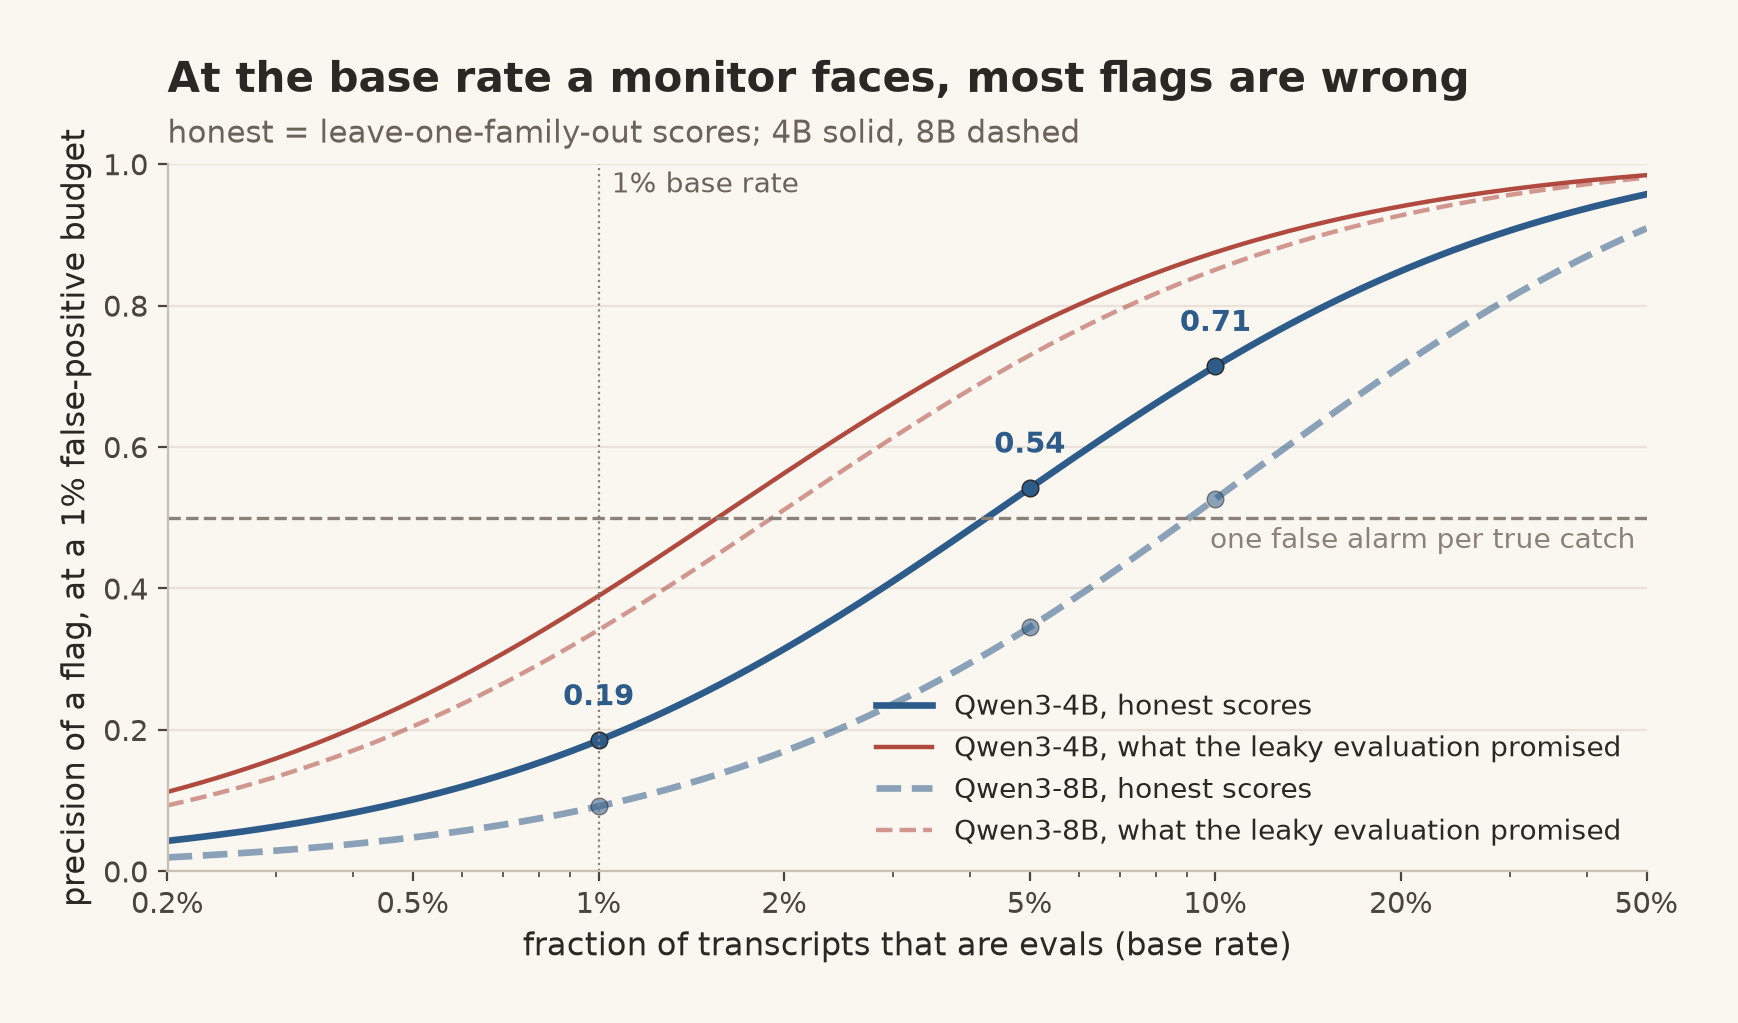
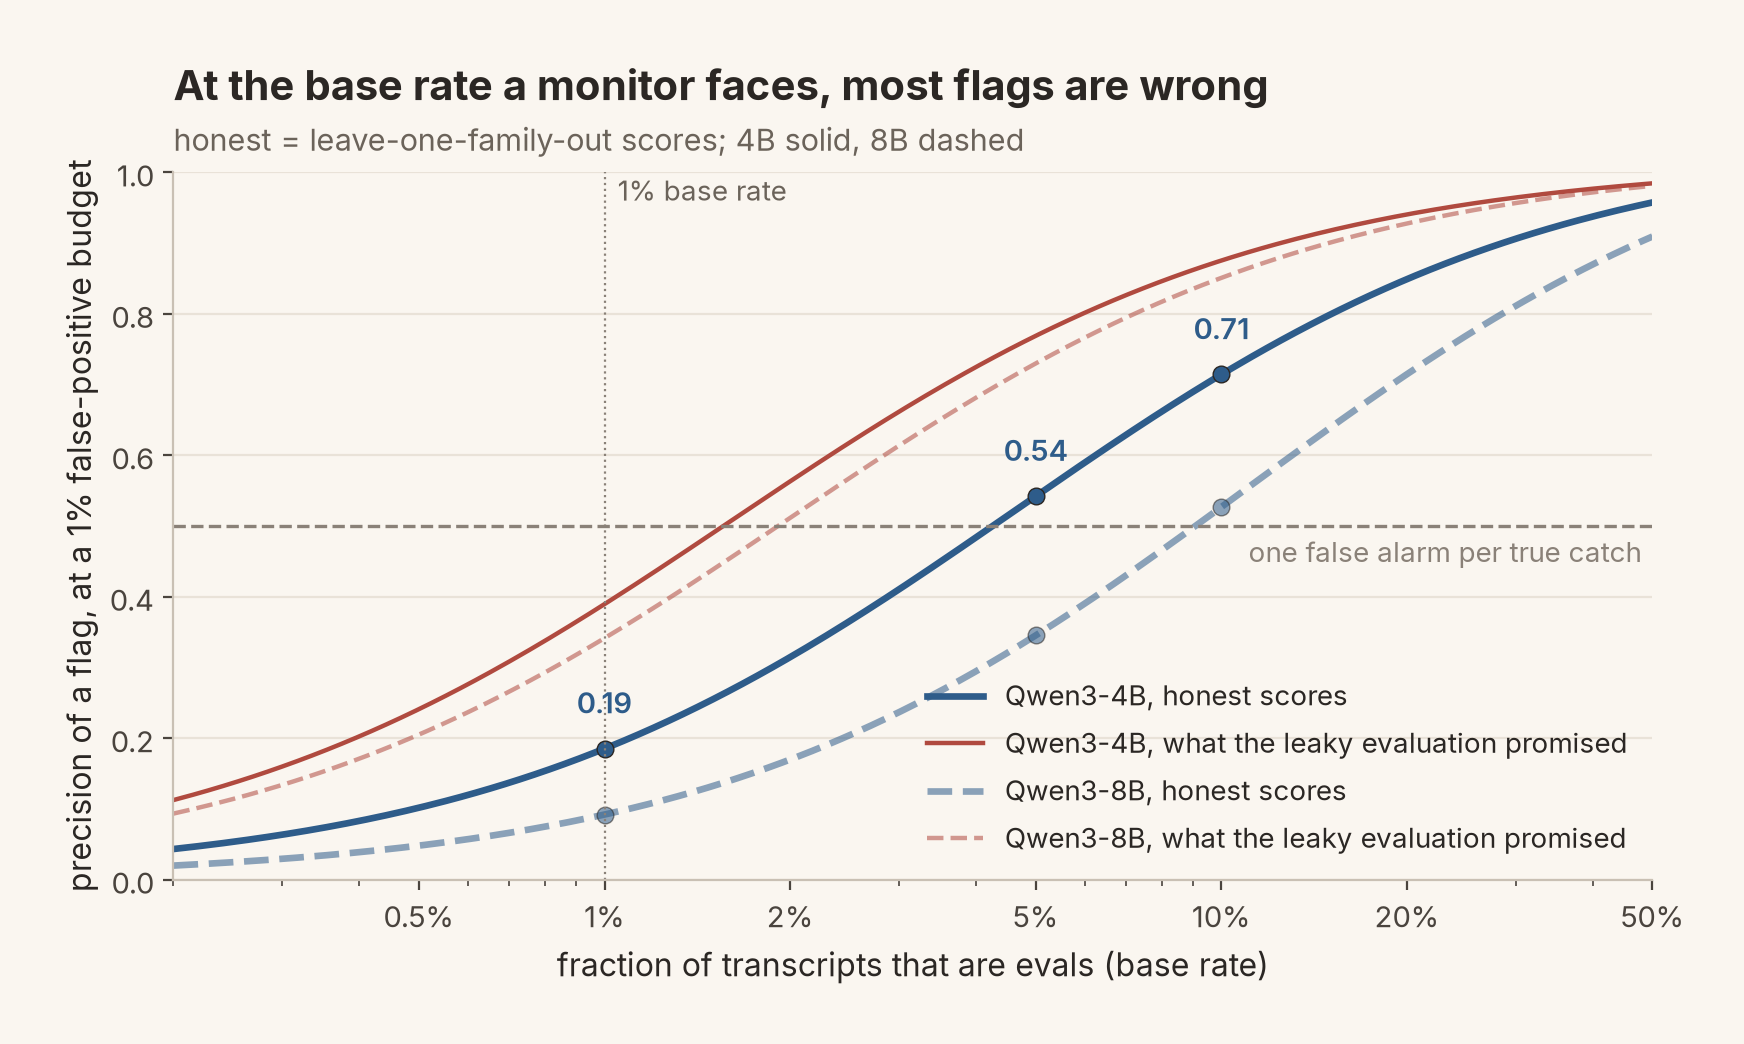
Figures rendered in Inter / JetBrains Mono; README font note

diff --git a/evalaware/pub_figures.py b/evalaware/pub_figures.py
@@ -147,7 +147,7 @@ def fig_c(c):
     ax.axhline(0.5, color=WARMGREY, ls="--", lw=1.2); ax.text(0.48, 0.487, "one false alarm per true catch", ha="right", va="top", color=WARMGREY, fontsize=10)
     ax.axvline(0.01, color=DEEMPH, ls=":", lw=0.8); ax.text(0.0105, 0.96, "1% base rate", fontsize=10, color=SUPPORT)
     ax.set_xscale("log"); ax.set_xlim(0.002, 0.5); ax.set_ylim(0, 1)
-    ax.set_xticks([0.002, 0.005, 0.01, 0.02, 0.05, 0.1, 0.2, 0.5]); ax.set_xticklabels(["0.2%", "0.5%", "1%", "2%", "5%", "10%", "20%", "50%"])
+    ax.set_xticks([0.005, 0.01, 0.02, 0.05, 0.1, 0.2, 0.5]); ax.set_xticklabels(["0.5%", "1%", "2%", "5%", "10%", "20%", "50%"])
     ax.set_xlabel("fraction of transcripts that are evals (base rate)"); ax.set_ylabel("precision of a flag, at a 1% false-positive budget"); _ygrid(ax)
     _title(ax, "At the base rate a monitor faces, most flags are wrong", "honest = leave-one-family-out scores; 4B solid, 8B dashed")
     ax.legend(loc="lower right")

diff --git a/README.md b/README.md
@@ -100,3 +100,11 @@ comparison, so `tests/test_compare_blackbox.py` asserts it.
 | `build_writeup_v3.py`, `build_writeup_v4.py` | docx builders; v4 is the current write-up |
 
 Environment: `source /mnt/scratch/bgxp240/interp/activate.sh` first. The default conda env has no sklearn and pytest collection fails outright without it.
+
+### Figure fonts
+
+`evalaware/pub_figures.py` asks for Inter (text) and JetBrains Mono (code), both OFL-licensed,
+falling back to DejaVu if absent. To match the shipped PNGs, drop the static TTFs into
+`~/.fonts/evalaware/ttf/` (Inter-{Regular,SemiBold,Bold}.ttf, JetBrainsMono-Regular.ttf) and
+delete matplotlib's `fontlist*.json` cache once. Sources: github.com/rsms/inter (v4.1),
+github.com/JetBrains/JetBrainsMono (v2.304).
